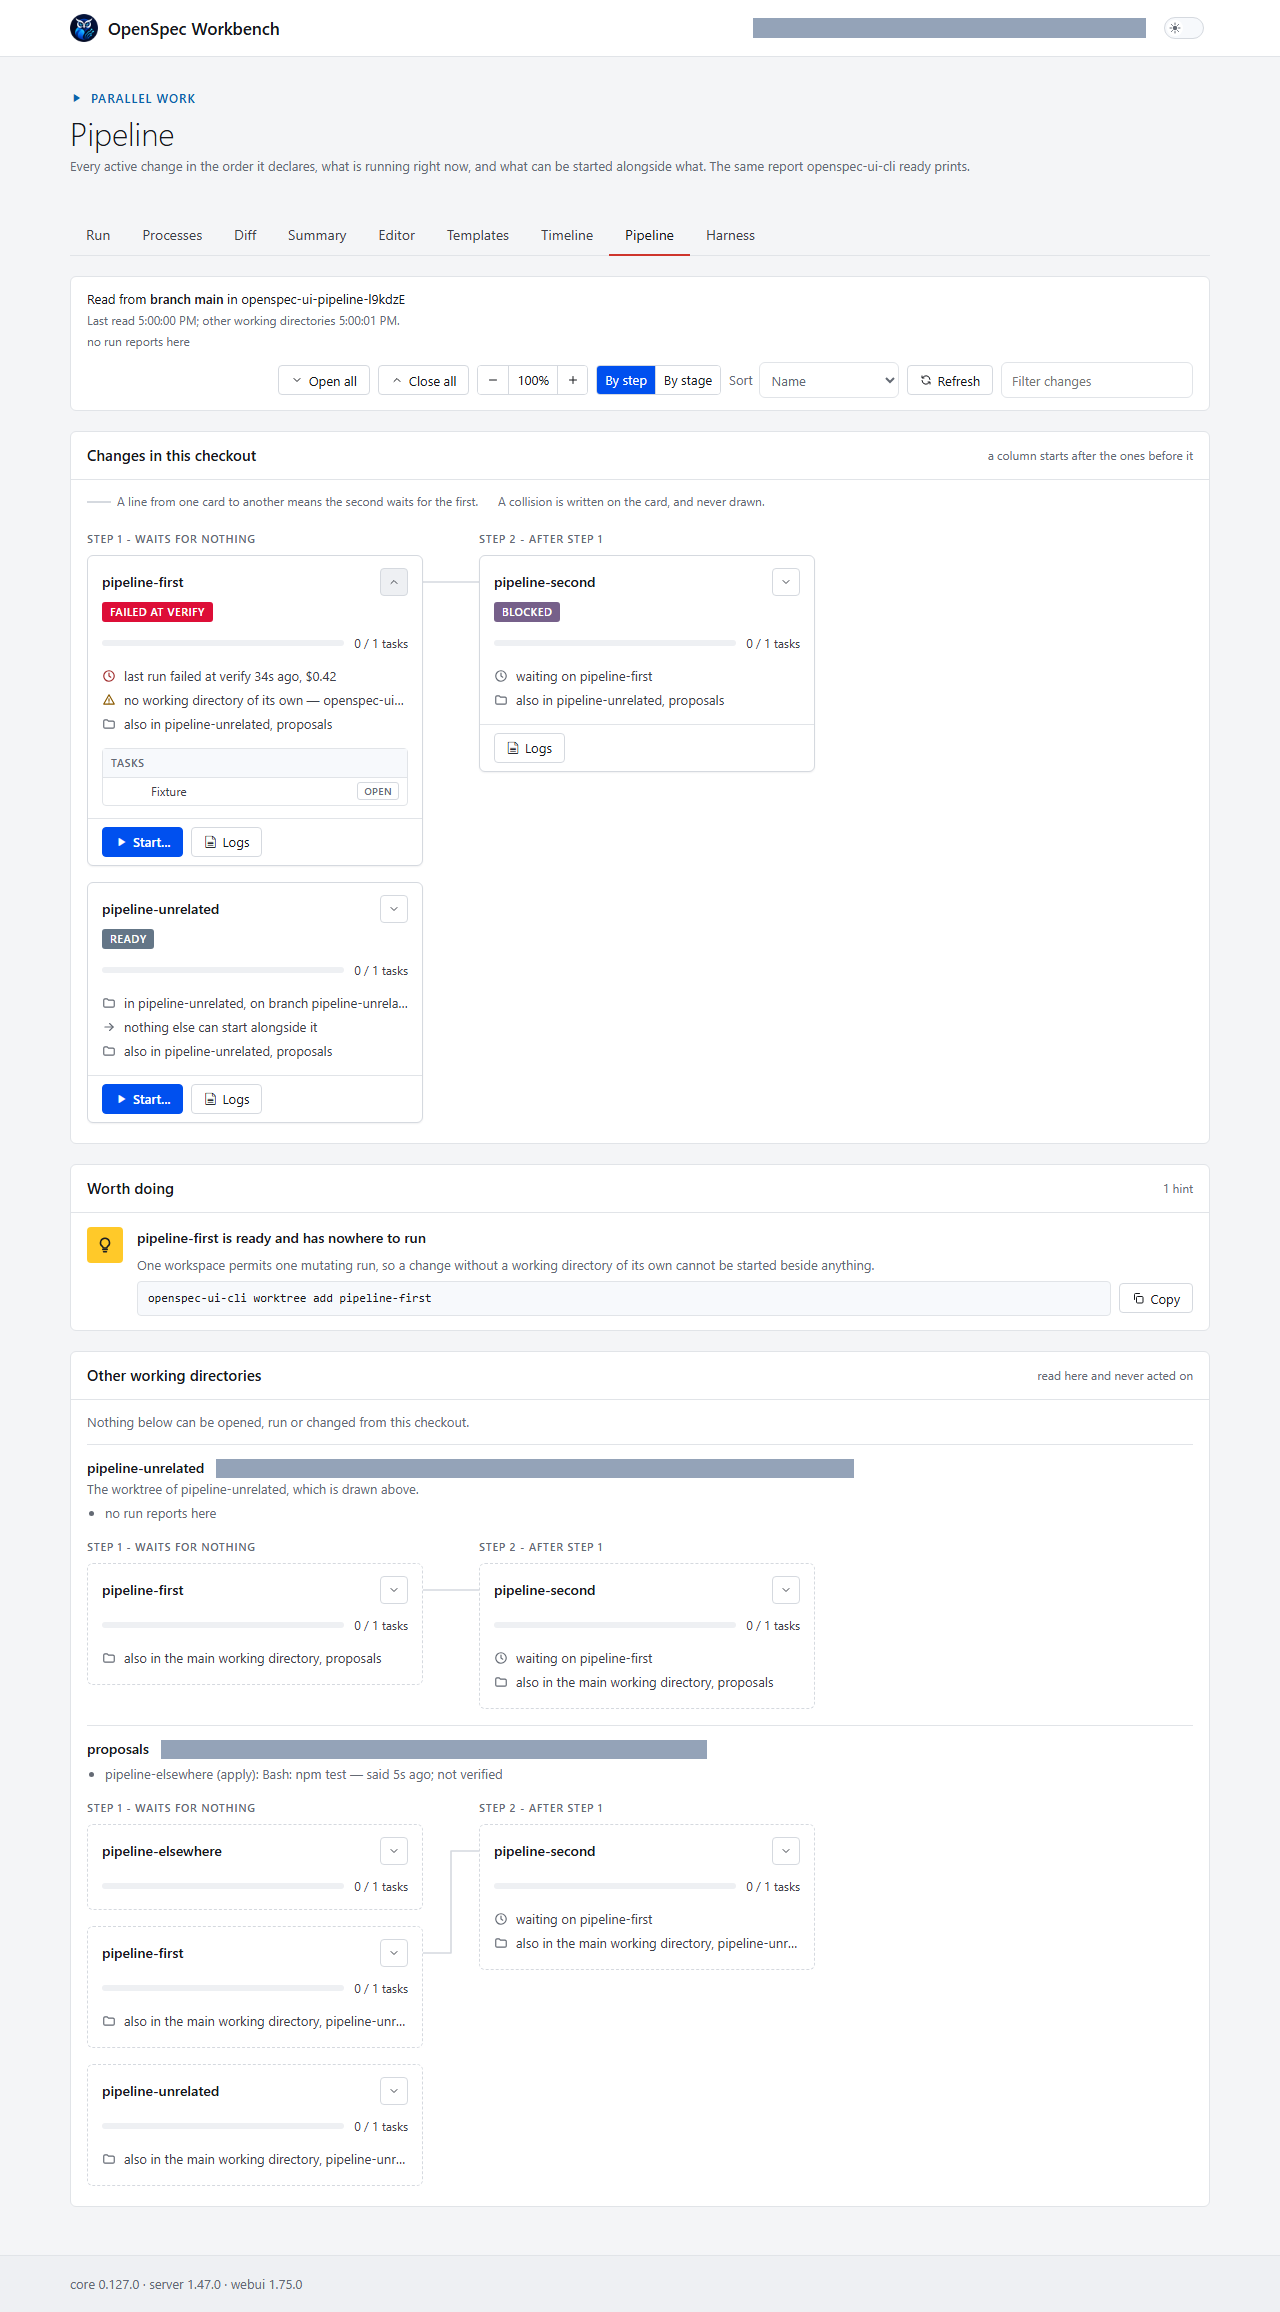
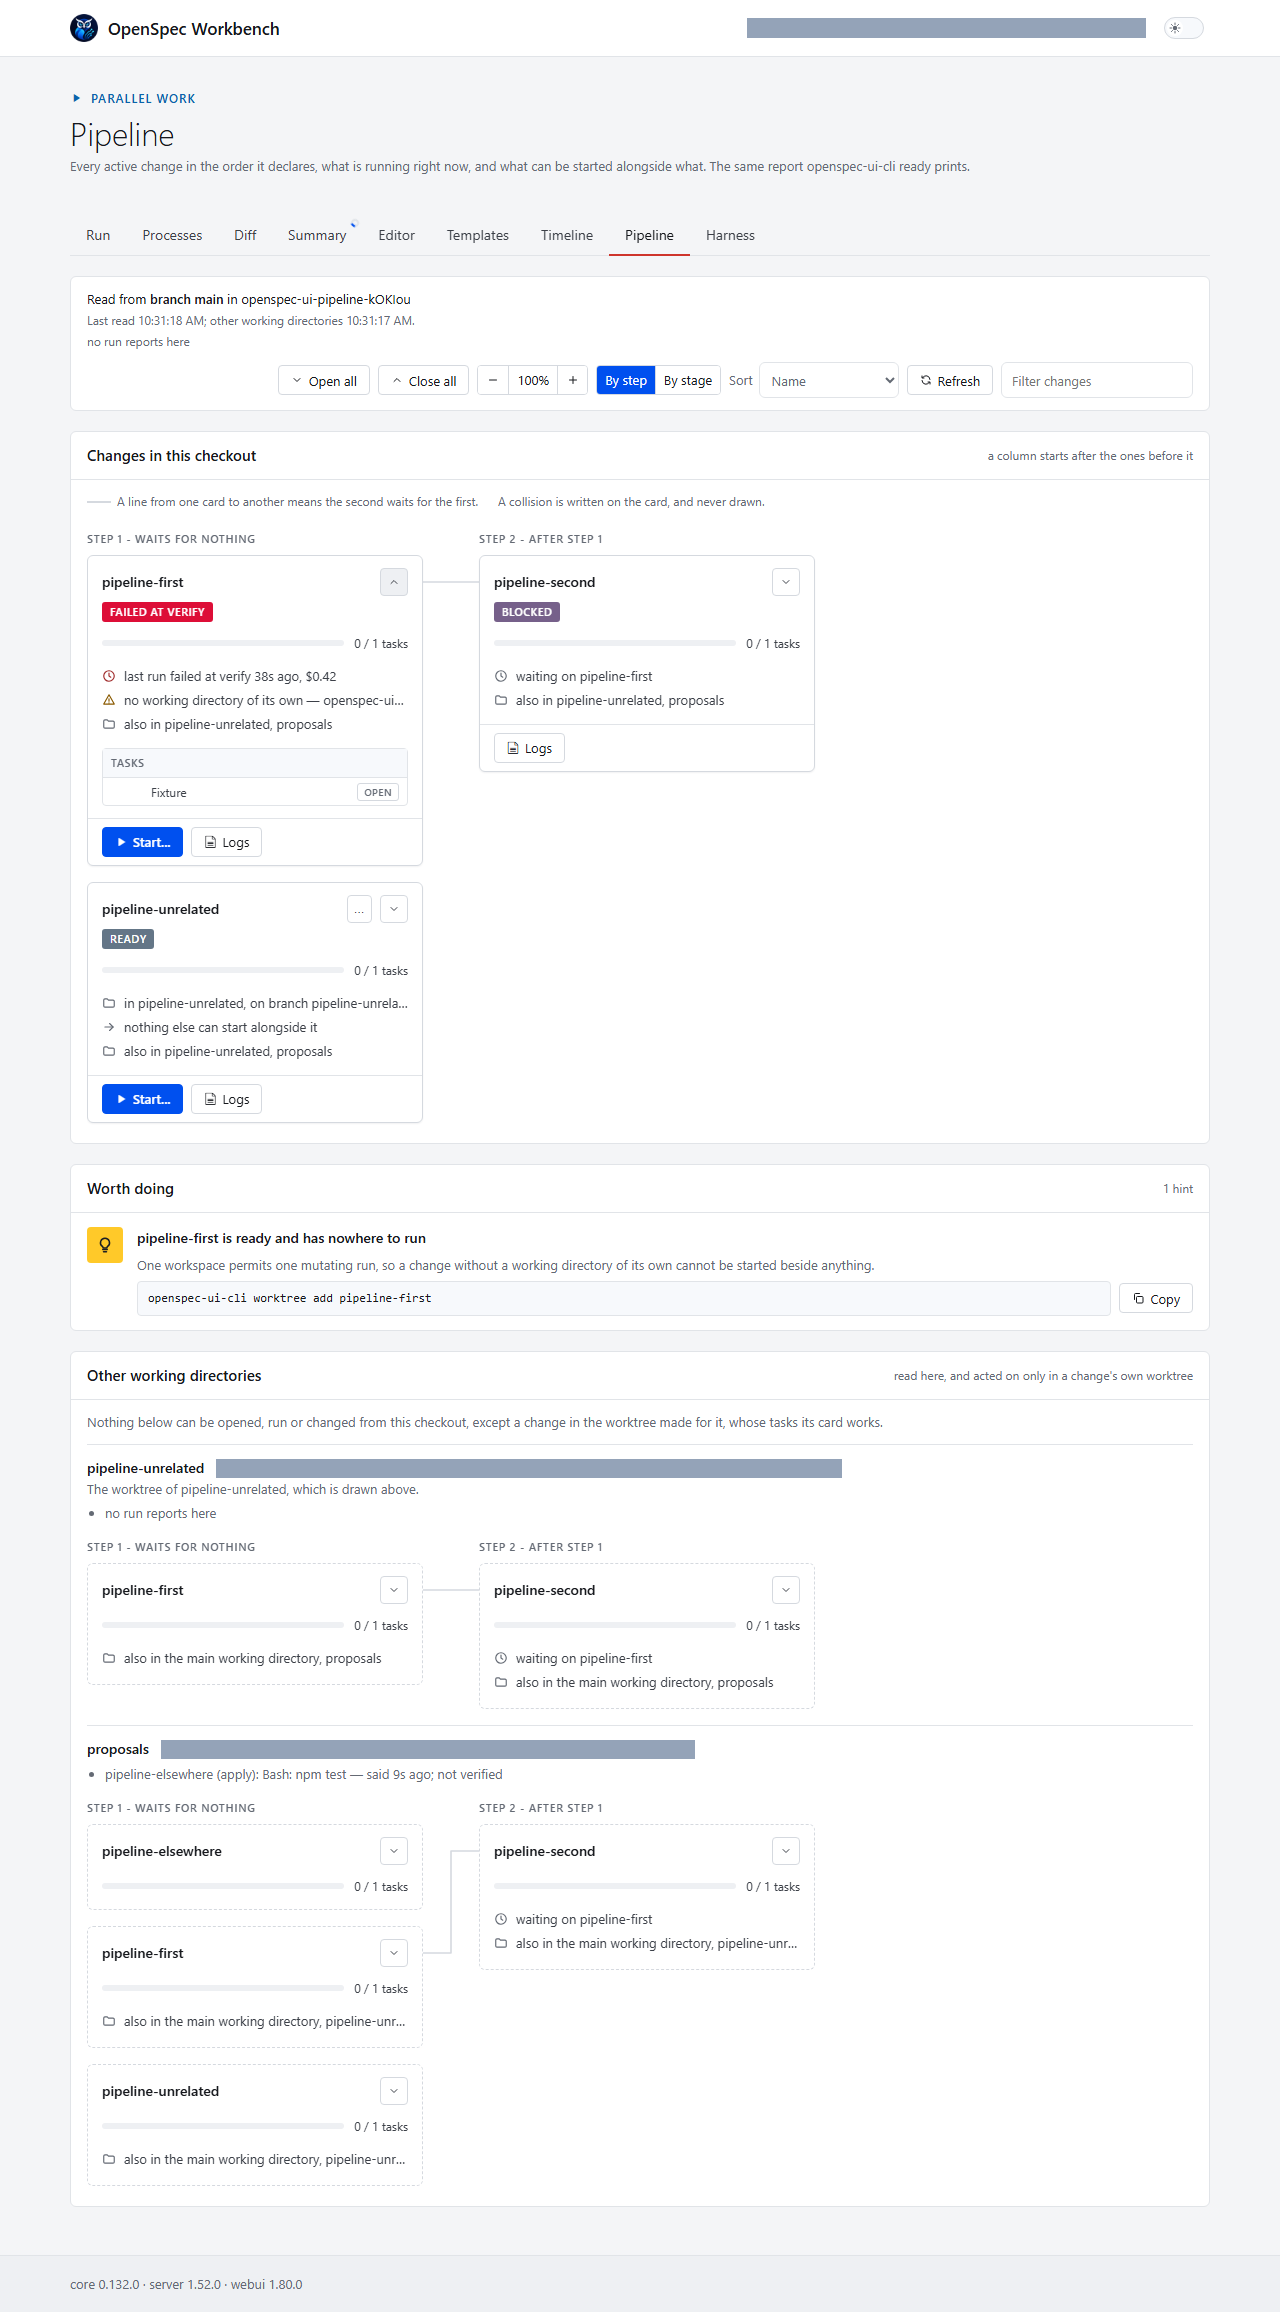
test(e2e): a foreign card's task rows open a task to read (a-card-works-its-own-tasks)
The pipeline spec counted every button on another directory's card but
the disclosure. Its task rows are now buttons that open a task whole,
read-only; the check still refuses anything that reaches the change.

diff --git a/packages/server/e2e/pipeline.spec.ts b/packages/server/e2e/pipeline.spec.ts
@@ -283,9 +283,10 @@ test("draws the declared order, and passes axe", async ({ page }) => {
   const other = page.getByRole("region", { name: "Working directory proposals" });
   await expect(other).toBeVisible({ timeout: 15000 });
   await expect(other.locator("[data-testid$='-node-pipeline-elsewhere']")).toHaveJSProperty("tagName", "DIV");
-  // Its one control shows the tasks this reading holds; nothing reaches the
-  // change (a-card-opens-to-its-tasks).
-  await expect(other.locator("button:not(.openspec-pipeline-node-disclosure)")).toHaveCount(0);
+  // Its controls show the tasks this reading holds, and open one whole to
+  // read; nothing reaches the change: its name is no control, and it offers
+  // no list actions (a-card-opens-to-its-tasks, a-card-works-its-own-tasks).
+  await expect(other.locator("button:not(.openspec-pipeline-node-disclosure):not(.openspec-pipeline-task-open)")).toHaveCount(0);
   await expect(page.getByTestId("pipeline").getByText("Bash: npm test", { exact: false }).first()).toBeVisible();
 
   // a-change-is-running-when-its-run-says-so 4.7: a change's own worktree
